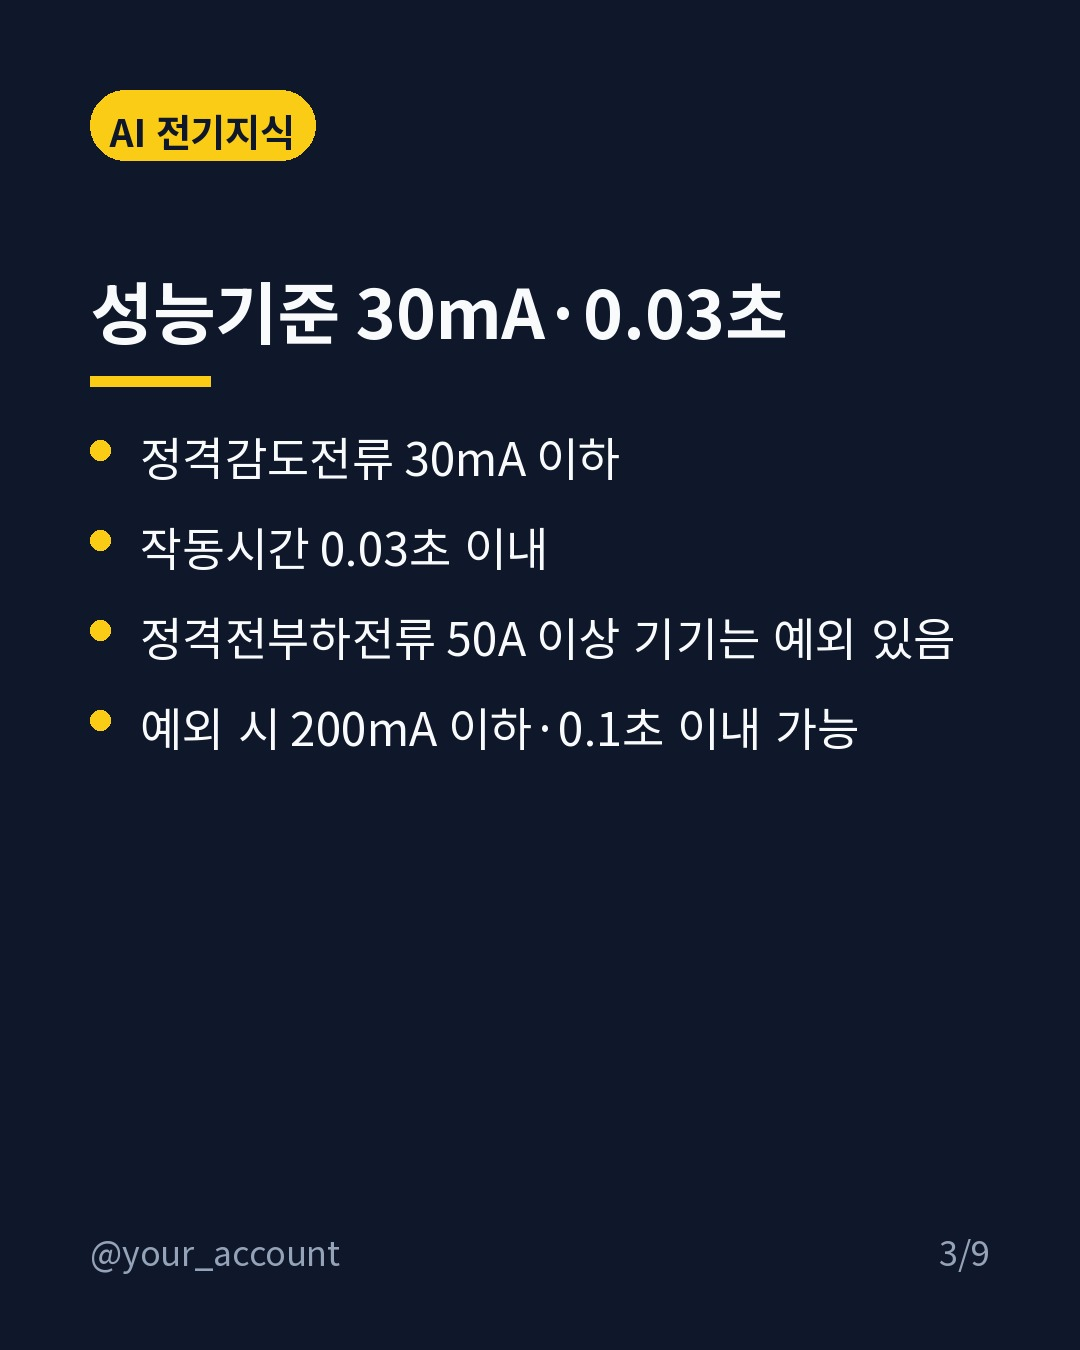
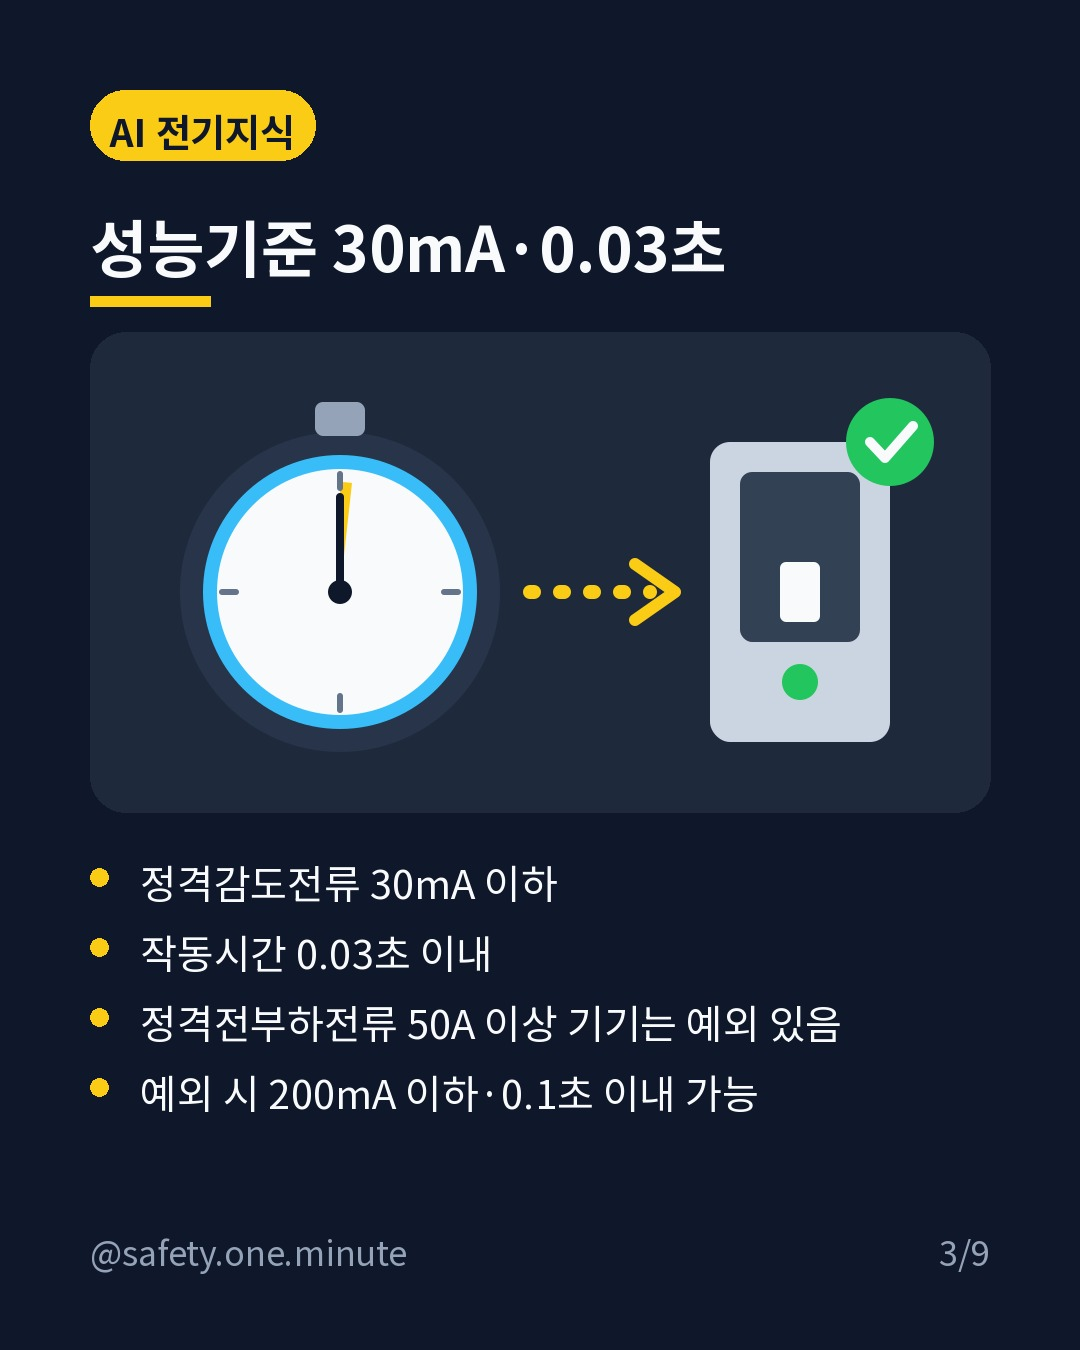
카드뉴스에 만화풍 일러스트 추가 (Claude가 SVG로 직접 작성)
- 표지·본문 장마다 상황에 맞는 그림, 그림 검증(글자·외부참조 금지)
- 그림 공간 확보를 위해 요점 3개·40자 이내로 조정
- 11/2 미리보기에 샘플 그림 4장 적용

Claude-Session: https://claude.ai/code/session_01JXwJFGVYQU79mWMubKwmiq

diff --git a/src/render.py b/src/render.py
@@ -2,6 +2,7 @@
 from pathlib import Path
 from PIL import Image, ImageDraw, ImageFont
 from .models import Post
+from . import illust
 
 
 def _font(path, size):
@@ -27,29 +28,43 @@ def _wrap(draw, text, font, max_w):
     return lines + ([line] if line else [])
 
 
-def _card(cfg, label, heading, body, page, total, cover=False):
+def _card(cfg, label, heading, body, page, total, cover=False, svg=""):
     r = cfg["render"]; c = r["colors"]; W, H = r["width"], r["height"]
     img = Image.new("RGB", (W, H), c["bg"]); d = ImageDraw.Draw(img)
     bold, reg = r["font"], r["font_regular"]
     pad = 90
+    illus = illust.to_image(svg, 900, 480)
     # 상단 분류 라벨
-    d.rounded_rectangle((pad, pad, pad + 40 + d.textlength(label, font=_font(bold, 38)), pad + 70),
-                        radius=35, fill=c["accent"])
-    d.text((pad + 20, pad + 12), label, font=_font(bold, 38), fill=c["bg"])
-    y = 380 if cover else 260
-    hf = _font(bold, 92 if cover else 68)
+    lf = _font(bold, 38)
+    d.rounded_rectangle((pad, pad, pad + 40 + d.textlength(label, font=lf), pad + 70), radius=35, fill=c["accent"])
+    d.text((pad + 20, pad + 12), label, font=lf, fill=c["bg"])
+
+    if illus is None:  # 그림 없는 카드(참고자료 등): 기존 배치
+        y = 380 if cover else 260
+        hf = _font(bold, 92 if cover else 68)
+    else:              # 그림 카드: 제목 → 그림 → 요점
+        y = 200
+        hf = _font(bold, 80 if cover else 62)
     for ln in _wrap(d, heading, hf, W - pad * 2):
-        d.text((pad, y), ln, font=hf, fill=c["text"]); y += hf.size + 24
-    d.rectangle((pad, y + 24, pad + 120, y + 34), fill=c["accent"]); y += 70
-    bf = _font(reg, 52 if cover else 46)
+        d.text((pad, y), ln, font=hf, fill=c["text"]); y += hf.size + 20
+    d.rectangle((pad, y + 14, pad + 120, y + 24), fill=c["accent"]); y += 50
+
+    if illus is not None:
+        panel = (pad, y, W - pad, y + 480)
+        d.rounded_rectangle(panel, radius=36, fill=c.get("panel", "#1E293B"))
+        img.paste(illus, (pad, y), illus)
+        y += 480 + 40
+
+    bf = _font(reg, (46 if cover else 40) if illus is not None else (52 if cover else 46))
+    gap = 12 if illus is not None else 16
     for b in body:
         lines = _wrap(d, b, bf, W - pad * 2 - (0 if cover else 50))
         if not cover:
-            d.ellipse((pad, y + 18, pad + 20, y + 38), fill=c["accent"])
+            d.ellipse((pad, y + bf.size // 2 - 4, pad + 18, y + bf.size // 2 + 14), fill=c["accent"])
         for ln in lines:
-            d.text((pad + (0 if cover else 50), y), ln, font=bf, fill=c["text"] if not cover else c["sub"])
-            y += bf.size + 16
-        y += 28
+            d.text((pad + (0 if cover else 50), y), ln, font=bf, fill=c["sub"] if cover else c["text"])
+            y += bf.size + gap
+        y += 18 if illus is not None else 28
     # 하단 계정명·쪽번호
     sf = _font(reg, 34)
     d.text((pad, H - pad - 34), cfg["account"]["handle"], font=sf, fill=c["sub"])
@@ -62,9 +77,9 @@ def render_images(cfg, post: Post, out_dir: Path) -> list[Path]:
     out_dir.mkdir(parents=True, exist_ok=True)
     label = cfg["categories"][post.category]["label"]
     total = len(post.slides) + 2
-    cards = [_card(cfg, label, post.title, [post.subtitle], 1, total, cover=True)]
+    cards = [_card(cfg, label, post.title, [post.subtitle], 1, total, cover=True, svg=post.cover_svg)]
     for i, s in enumerate(post.slides, start=2):
-        cards.append(_card(cfg, label, s.heading, s.body, i, total))
+        cards.append(_card(cfg, label, s.heading, s.body, i, total, svg=s.illustration_svg))
     src = ["출처"] + [f"{s.publisher} · {s.title}" for s in post.sources[:4]]
     cards.append(_card(cfg, label, "참고자료", src[1:] + ([" / ".join(post.legal_refs[:3])] if post.legal_refs else []), total, total))
     paths = []

diff --git a/src/illust.py b/src/illust.py
@@ -1,0 +1,41 @@
+"""Claude가 그린 SVG 일러스트 검증·변환."""
+import io
+import re
+import xml.etree.ElementTree as ET
+
+from PIL import Image
+
+MAX_BYTES = 40_000
+FORBIDDEN = {"script", "image", "foreignObject", "iframe", "use", "a", "style", "text", "textPath", "tspan"}
+
+
+def validate(svg: str) -> str | None:
+    """문제 있으면 사유 문자열, 정상이면 None."""
+    if not svg:
+        return None
+    if len(svg.encode()) > MAX_BYTES:
+        return f"SVG 용량 초과({len(svg.encode())}B > {MAX_BYTES}B)"
+    try:
+        root = ET.fromstring(svg)
+    except ET.ParseError as e:
+        return f"SVG 문법 오류: {e}"
+    if not root.tag.endswith("svg"):
+        return "최상위 태그가 svg 가 아님"
+    if root.get("viewBox", "").split() != ["0", "0", "900", "480"]:
+        return "viewBox 는 '0 0 900 480' 이어야 함"
+    for el in root.iter():
+        tag = el.tag.split("}")[-1]
+        if tag in FORBIDDEN:
+            return f"사용 금지 요소 <{tag}> (글자·외부이미지·스크립트 금지)"
+        for k, v in el.attrib.items():
+            if k.split("}")[-1] == "href" or re.search(r"url\((?!#)", v) or k.startswith("on"):
+                return f"외부 참조/이벤트 속성 금지: {k}"
+    return None
+
+
+def to_image(svg: str, width: int, height: int) -> Image.Image | None:
+    if not svg or validate(svg):
+        return None
+    import cairosvg
+    png = cairosvg.svg2png(bytestring=svg.encode(), output_width=width, output_height=height)
+    return Image.open(io.BytesIO(png)).convert("RGBA")

diff --git a/src/check.py b/src/check.py
@@ -9,6 +9,7 @@ import requests
 import yaml
 
 from .models import Issue, Post
+from . import illust
 
 ROOT = Path(__file__).resolve().parent.parent
 
@@ -41,8 +42,14 @@ def rule_check(cfg: dict, post: Post, check_urls: bool = True) -> list[Issue]:
     if re.search(r"01[016789]-?\d{3,4}-?\d{4}", text):
         issues.append(Issue(severity="critical", where="본문", problem="전화번호 포함", fix="삭제"))
     for s in post.slides:
-        if len(s.heading) > 22 or any(len(b) > 50 for b in s.body) or len(s.body) > 4:
-            issues.append(Issue(severity="major", where=s.heading, problem="글자 수·줄 수 초과(제목 22자, 요점 4개·각 50자)", fix="축약"))
+        if len(s.heading) > 22 or any(len(b) > 40 for b in s.body) or len(s.body) > 3:
+            issues.append(Issue(severity="major", where=s.heading, problem="글자 수·줄 수 초과(제목 22자, 요점 3개·각 40자)", fix="축약"))
+    svgs = [("표지", post.cover_svg)] + [(s.heading, s.illustration_svg) for s in post.slides]
+    for where, svg in svgs:
+        if not svg:
+            issues.append(Issue(severity="minor", where=where, problem="일러스트 없음", fix="SVG 일러스트 추가"))
+        elif (err := illust.validate(svg)):
+            issues.append(Issue(severity="major", where=where, problem=f"일러스트 오류: {err}", fix="SVG 수정"))
     if check_urls:
         for s in post.sources:
             try:

diff --git a/src/models.py b/src/models.py
@@ -19,12 +19,14 @@ class Research(BaseModel):
 class Slide(BaseModel):
     heading: str = Field(description="슬라이드 제목, 18자 이내")
     body: List[str] = Field(description="본문 요점 2~4개, 각 40자 이내")
+    illustration_svg: str = Field(default="", description="장면 일러스트 SVG (viewBox 0 0 900 480, 글자 없음)")
 
 
 class Post(BaseModel):
     category: str
     title: str = Field(description="표지 제목, 20자 이내")
     subtitle: str = Field(description="표지 부제, 30자 이내")
+    cover_svg: str = Field(default="", description="표지 일러스트 SVG (viewBox 0 0 900 480, 글자 없음)")
     slides: List[Slide] = Field(description="본문 슬라이드 4~7장")
     caption: str = Field(description="인스타그램 본문, 1,500자 이내, 출처 표기 포함")
     hashtags: List[str] = Field(description="해시태그 10~20개, # 포함")

diff --git a/prompts/daily.md b/prompts/daily.md
@@ -20,12 +20,26 @@
 
 ## 2. 원고 작성 (`src/models.py`의 Post 구조)
 - title 20자 이내, subtitle 30자 이내
-- slides 4~7장: heading 18자 이내, body 요점 2~4개(각 40자 이내)
+- slides 4~7장: heading 18자 이내, body 요점 2~3개(각 40자 이내 — 그림이 들어가므로 짧게)
 - 사고사례 순서: 사고 개요 → 원인 → 예방대책 → 관련 법령
 - caption: 쉬운 설명 + `출처: 기관명` 목록 + 맨 끝에 `config.yaml`의 `account.disclaimer` **원문 그대로**
 - hashtags 10~20개(# 포함, 주제 관련만)
 - 금지: 과장·공포 조장, '100% 예방' 같은 단정, 광고·협찬·판매 유도, 정책 찬반·정치적 표현,
   기관을 대표하는 말투('우리 부처는' 등), `config.yaml`의 `banned_words`
+
+## 2-1. 일러스트 그리기 (표지 + 본문 모든 장)
+각 장의 내용에 맞는 **만화풍 플랫 일러스트**를 SVG로 직접 그려 `cover_svg`, 각 slide의 `illustration_svg`에 넣는다.
+- 형식: `<svg xmlns="http://www.w3.org/2000/svg" viewBox="0 0 900 480"> … </svg>` (viewBox 정확히 이 값), 장당 40KB 이하
+- 사용 가능: rect, circle, ellipse, path, polygon, line, g (단색 fill/stroke)
+- **금지: 글자(<text>), 이미지(<image>), 외부 링크, <style>, <use>, 스크립트** — 글자는 카드에 따로 들어감
+- 배경: 투명(카드에 남색 패널 #1E293B 위에 얹힘). 강조 원·패널은 #273449
+- 팔레트: 노랑 #FACC15, 주황(안전조끼) #F97316, 파랑 #38BDF8, 빨강(위험) #EF4444, 초록(정상) #22C55E,
+  회색 #94A3B8 / #CBD5E1 / #334155, 흰색 #F8FAFC, 피부 #F2C6A0, 작업복 바지 #1E40AF
+- 인물: 둥근 얼굴 + 안전모(노랑) + 안전조끼(주황, 반사띠) 의 단순한 귀여운 캐릭터. 표정은 밝게
+- 장면이 내용과 맞아야 한다: 예) 정전작업 → 차단기 내리고 잠금장치, 추락 → 안전대 고리 체결, 원인 → 위험 요소에 빨간 X/경고 표시
+- **기술적으로 올바른 모습만 그린다.** 예방대책 장면에서 보호구 미착용·잘못된 작업자세 금지
+- 사고 장면은 위험 요소(번개, 경고 삼각형, 빨간 X)로만 표현. **부상·피·쓰러진 사람·사망 묘사 금지**
+- 참고자료 장(마지막 장)은 그림 없음
 
 ## 3. 독립 검수
 작성과 분리된 시각으로 검수한다. 가능하면 서브에이전트(Agent 도구)에 **조사자료와 원고만** 넘겨 검수시킨다.
@@ -36,6 +50,7 @@
 - D. 개인정보·명예: 실명·업체명·특정 가능 정보 없음
 - E. 표현: 과장·공포조장·비하·정치적·광고성 표현 없음
 - F. 저작권: 출처 표기, 원문 장문 그대로 옮기지 않음
+- H. 일러스트: 장면이 내용과 맞는가, 잘못된 작업방법·보호구 미착용을 올바른 것처럼 그리지 않았는가, 부상 묘사 없는가
 - G. 개인 계정 기준: 기관 대표 표현·정책 찬반·비공개 행정정보·영리 홍보 없음
 불합격이면 지적사항을 반영해 다시 쓰고 재검수한다(최대 3회).
 `score`는 `config.yaml`의 `review.min_score` 이상이어야 passed=true 로 기록할 수 있다.
